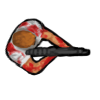
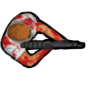
bullet coming out of the weapon

Changed region(s): [[0.0, 0.1111, 0.9556, 0.7778], [0.2222, 0.3556, 0.2444, 0.3778], [0.2, 0.4, 0.2222, 0.4222]]

diff --git a/Classes/crimson/Player.cpp b/Classes/crimson/Player.cpp
@@ -13,13 +13,17 @@ Player::Player(cocos2d::CCSprite* sprite, std::map<int, Animation*>& animations)
 
 void Player::disparar() {
 	cocos2d::CCPoint location = this->getLocation();
-	cocos2d::CCSprite* spriteBullet = SpriteUtil::create("bullet.jpg", location.x - 5 -15, location.y - 1.5 - 15, 10, 3);
 
-	/** transformo el angulo a radianes */
+	cocos2d::CCSprite* spriteBullet = SpriteUtil::create("bullet.jpg", location.x, location.y, 5, 5);
+	/** degrees to radians */
 	float rotation = this->getSprite()->getRotation();
 	float angle = -rotation / 57.2957795;
 
 	spriteBullet->setRotation(rotation);
+
+	//fix position of the bullet to actually come out the weapon. the last number fixes sprites nonesense
+	float R = 18;
+	SpriteUtil::moveTo(spriteBullet, location.x + R * cos(angle), location.y + R * sin(angle) - 16);
 
 	std::map<int, Animation*> animations;
 	Bullet* bullet = new Bullet(spriteBullet, angle, animations);
